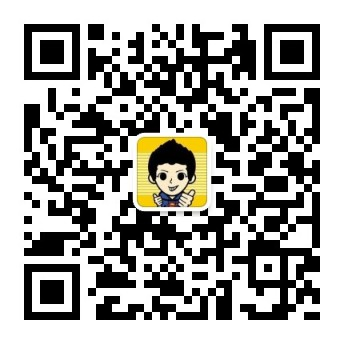
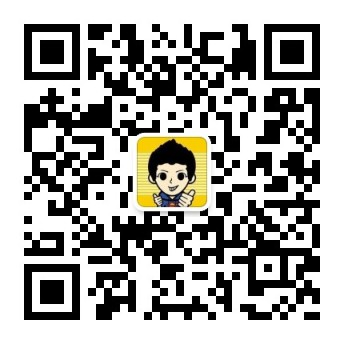
fix: README.MD

diff --git a/README.md b/README.md
@@ -5,9 +5,6 @@
 
 ## 学习交流
 
-关注微信公众号「**前端知识宝库**」，拉你进群，免费领取对应视频教程。行动是治愈恐惧的良药，犹豫和拖延将不断滋养恐惧，加油！
+关注微信公众号「**前端面试秘籍**」，拉你进群，免费领取对应视频教程。行动是治愈恐惧的良药，犹豫和拖延将不断滋养恐惧，加油！
 
 ![二维码](./【49】images/qrcode_001.jpg)
-
-
-
